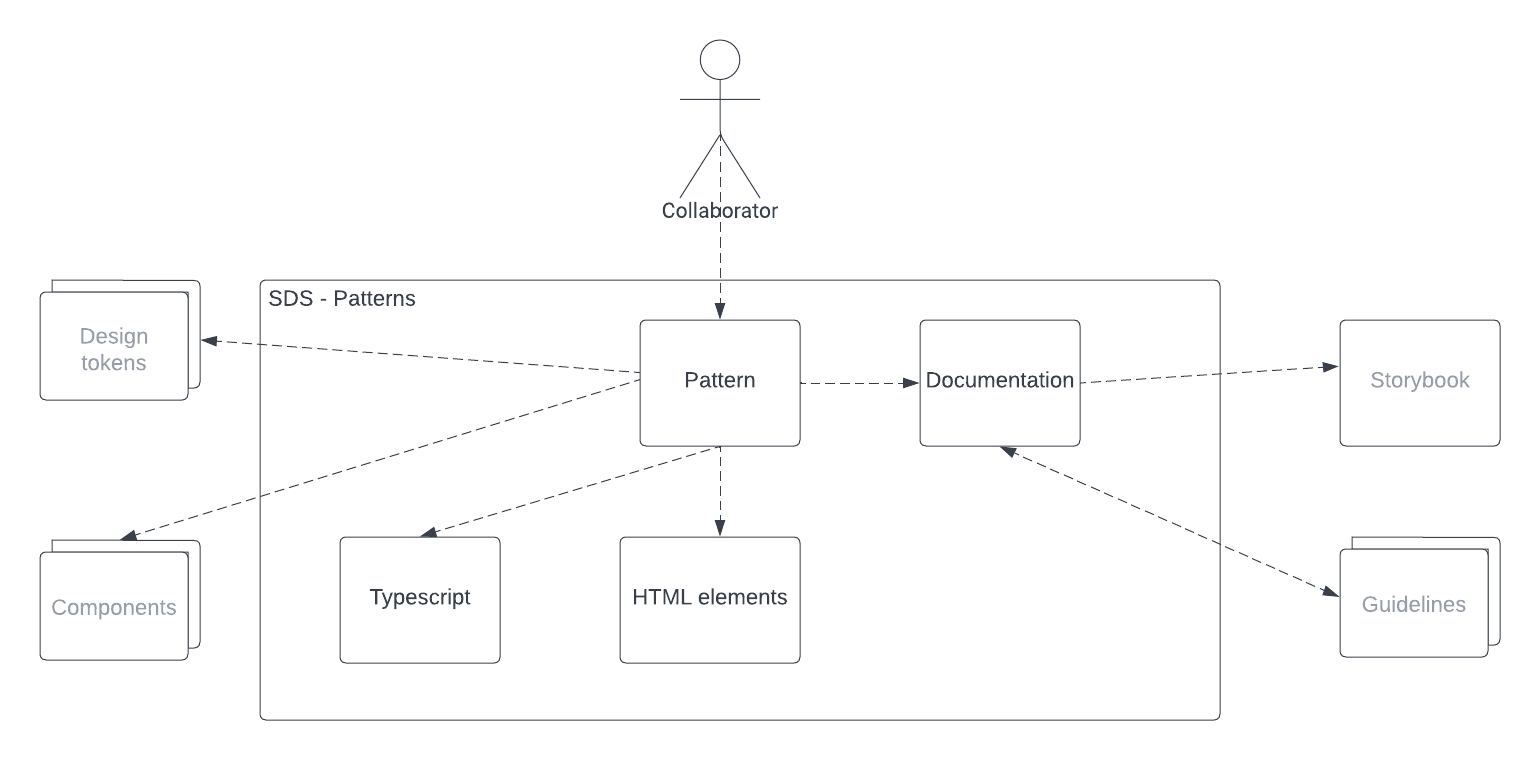
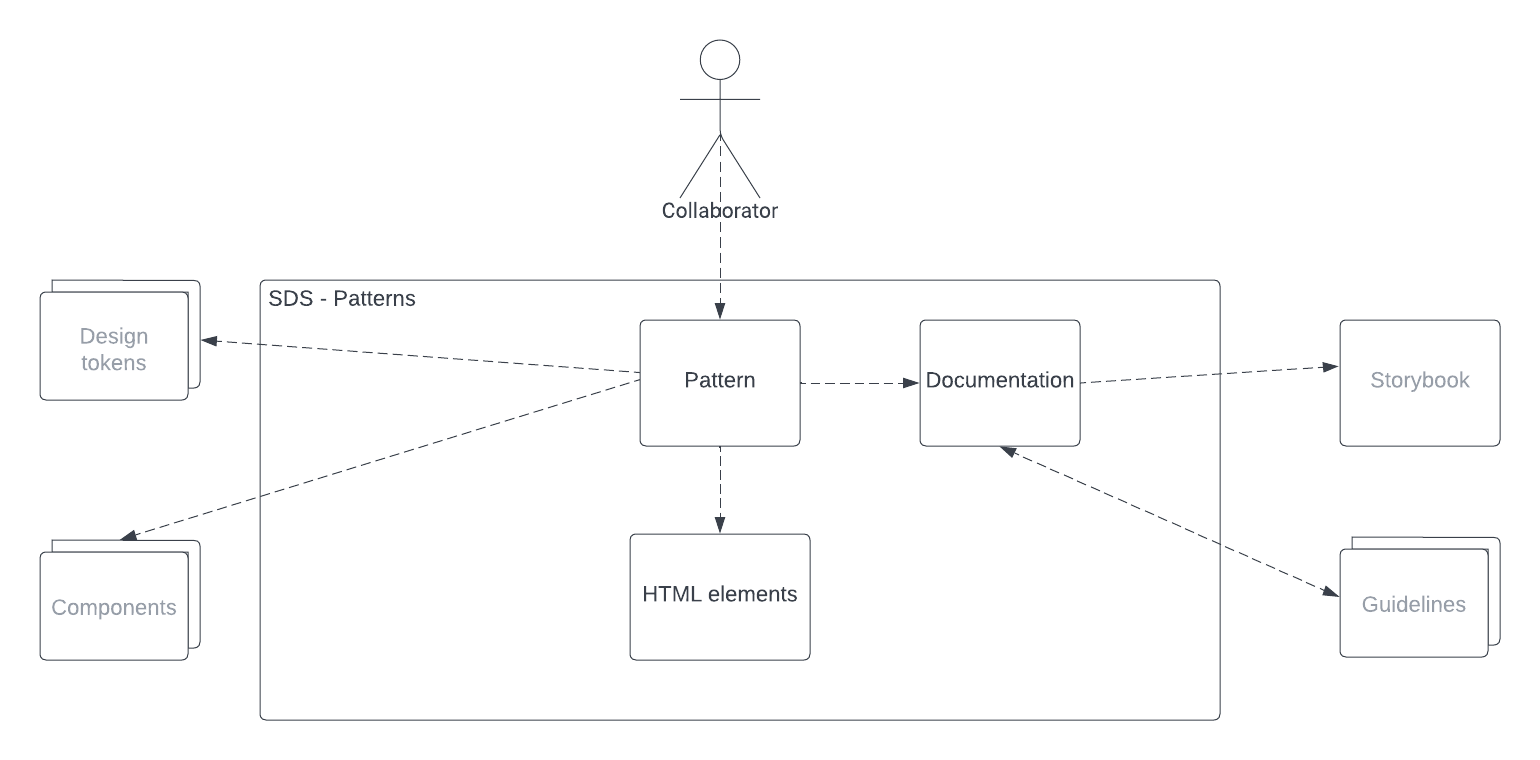
Finishing views of Starke

diff --git a/chapter_3/modeling.tex b/chapter_3/modeling.tex
@@ -1,7 +1,7 @@
 \subsection{Architecture}
 The actual architecture of the \ac{SDS} describes the structure of the \ac{SDS}. The elaboration models the architecture according to Starke's four-view principle. The four perspectives describe different aspects of the system architecture. \cite{starke_effektive_2020}
 
-\subsubsection{Context perspective}
+\subsubsection{Context perspective}\label{context_view}
 The context perspective is an overview of the system by modeling out the dependencies to other systems and actors interacting with the system.\\
 \begin{figure}[htbp]
     \centerline{
@@ -61,25 +61,38 @@ The connection to collaborators represents their contributions to the design tok
 Next, it is time to take a closer look at the architecture of the SDS by moving to the second level of the building block view. At the second level, Starke's method performs a more detailed analysis of the building blocks of the components and patterns.
 
 \paragraph{Building block view level 2 - Components}
+The first detailed view deals with the components of SDS. Figure \ref{building_block_level_2_component_sds} shows the diagram of a second level component block view. The component building block is in the middle of this diagram. A lot of connections start from there.
+
 \begin{figure}[htbp]
     \centerline{
     \includegraphics[width=\linewidth]{images/building_block_view_level_2_component.png}}
 \caption{Building block level 2 component}
 \label{building_block_level_2_component_sds}
 \end{figure}
-\subparagraph{Components} \label{sds-component}
-Without well-assembled components, design systems cannot exist. Therefore, choosing the right technology package for building components is very important. In the case of \ac{SDS}, one of the most essential requirements is that the system is usable independently of the frontend framework used. To achieve this, \ac{SDS} uses the web components supported in almost all modern browsers. As it is possible to create web components without importing libraries or frameworks, it is for \ac{SDS}. \citep{mdn_web_component_nodate} \\
+\subparagraph{Component} \label{sds-component}
+Without well-assembled components, design systems cannot exist. Therefore, choosing the right technology package for building components is very important. In the case of \ac{SDS}, one of the most essential requirements is that the system is usable independently of the frontend framework used. The link to the Lit element module symbolizes the use of this lightweight framework, which can be used to create framework-independent components. In addition to this link, the link to Typescript points to another technology that supports building the components.  \\
+The diagram shows that the only actor in the components of the design system is the collaborator. He is responsible for all adjustments of the component. \\
+Since components within a design system must have documentation, this diagram shows a link from the component box to the documentation building block. This indicator shows that a component provides documentation that is then used further in the storybook component to publish it. \\
+Other outgoing connections related to the component module are to the other essential components of a design system - the tokens and patterns. As explained earlier, tokens should be used everywhere when new elements are created within the design system. The connection represents the consumption of design tokens in a component. The other outgoing connection is actually a consumption of the components by the design system patterns. \\
 
-Creating web components natively can be complicated. The Lit Element framework helps developers build web components by eliminating some of the pitfalls of implementing web components from scratch. With a focus on ease of understanding, intelligent DOM updates, and a small package size (5 KB), Lit is a perfect addition for creating components for design systems based on standard web components. \citep{lit_nodate} \\
-
+\subparagraph{Typescript}
 To further assist developers, \ac{SDS} uses Typescript, a superset of Javascript. It extends Javascript with types and interfaces. Typescript must be compiled into Javascript for the browser to understand, but this allows the developer to find errors much faster because it fails at compile time rather than at runtime. \citep{microsoft_typescript_nodate} \\
+For this reason, the diagram in Figure \ref{building_block_level_2_component_sds} shows that Typescript is used by the Lit element and the component module. Therefore, technologically, there is no gap between the component and the framework used.
 
-The \ac{SDS} uses custom CSS variables to use and provide design tokens for colors or spacing. The design system imports the design tokens into the root element during bootstrapping. In the documentation of the design system exists a page with an overview of all design tokens. \citep{mdn_css_vars_nodate} \\
+\subparagraph{Lit-Element}
+Creating web components natively can be complicated. The Lit Element framework helps developers build web components by eliminating some of the pitfalls of implementing web components from scratch. With a focus on ease of understanding, intelligent DOM updates, and a small package size (5 KB), Lit is a perfect addition for creating components for design systems based on standard web components. \citep{lit_nodate} \\
+Since this framework is based on the web standard of web components, the diagram indicates the use of this standard with a link.
 
-Last but not least, users must have access to the documentation of the components and tokens. Storybook is the documentation tool for the \ac{SDS}. It has many built-in functions that are useful for documenting components. With MDX, the combination of Markdown templating (MD) and code injection via JSX, it is possible to write fluid documentation without having to jump back and forth between files while documenting components. \citep{otander_markdown_2017} \\
+\subparagraph{Web components}
+Web Components is a widely supported standard in all modern browsers for creating reusable components. It is not necessary to use a framework like React or Angular. Web Components encapsulate HTML, CSS, and JavaScript from the rest of the elements within a browser. They provide interfaces for communicating data in and out of the component. This makes web components highly reusable in all parts of a web project. \citep{mdn_web_component_nodate} \\
+Due to their high reusability and broad support, web components are a perfect fit for \ac{SDS} components. As described in the previous section, the link in the diagram represents the use of the Web Components standard by Lit-Element.
 
-With this technology stack, \ac{SDS} provides users with highly reusable web components that are easy for users to access but also easy for contributors to develop.
+\subparagraph{Documentation}
+Last but not least, users must have access to the documentation of components. The link in Figure \ref{building_block_level_2_component_sds} from the documentation to the Storybook indicates that it is the documentation tool for the \ac{SDS}. \\
+With MDX, the combination of Markdown templating (MD) and code injection via JSX, it is possible to write fluid documentation without having to jump back and forth between files while documenting components. \citep{otander_markdown_2017} \\
+
 \paragraph{Building block view level 2 - Patterns}
+The second detailed view deals with the patterns of SDS. Figure \ref{building_block_level_2_pattern_sds} shows the diagram of a second level component block view. The pattern building block is in the middle of this diagram. A lot of connections start from there.
 \begin{figure}[htbp]
     \centerline{
     \includegraphics[width=\linewidth]{images/building_block_view_level_2_pattern.png}}
@@ -89,16 +102,59 @@ With this technology stack, \ac{SDS} provides users with highly reusable web com
 
 
 
-\subparagraph{Patterns}
-An essential part of a design systems are patterns. Patterns try to combine the capabilities of a design system with the design of user interfaces. In the case of \ac{SDS}, patterns help developers automatically apply best practices and web standards without having to read an entire text. \\
+\subparagraph{Pattern}
+An essential part of a design systems are patterns. Patterns try to combine the capabilities of a design system with the design of user interfaces. In the case of \ac{SDS}, patterns help developers automatically apply best practices to their product without having to read an entire text. \\
+As with the components of SDS, the only actor is the collaborator. Figure \ref{building_block_level_2_pattern_sds} shows the only link of an actor to the pattern, indicating that he is responsible for all pattern adjustments. \\
+Combining standard HTML elements and components from SDS creates patterns in SDS. The diagram indicates these connections by the arrows shown above. These patterns are easily accessible to the developer by copying and pasting code into the desired application that integrates the \ac{SDS}. \\
+Patterns use design tokens and components of \ac{SDS}, visible here in Figure \ref{building_block_level_2_pattern_sds} as external dependencies. This ensures that the patterns created are consistent with the overall design idea of the design system. \\
+Additional documentation, visible through the connection with the documentation module, helps the developer to avoid using patterns where they do not belong. \\
+The goal of \ac{SDS} patterns is to simplify web accessibility compliance and leave enough room for user customization. Proper use of patterns is crucial for successful integration of \ac{SDS} into a product.
 
-The combination of standard HTML elements and components from SDS creates patterns in the SDS. These are easily accessible to the developer by copying and pasting code into the desired application that has implemented the SDS. Additional documentation helps the developer to avoid using patterns where they do not belong. \\
+\subparagraph{Documentation}
+\ac{SDS} patterns come with special documentation that allows for customization and redesign. The documentation enables developers to fulfill their requirements for their own design system.\\
+As with the component documentation, a link to the storybook shows that the patterns also leverage the power of the features. Features such as live examples show the \ac{SDS} user how the design system patterns will work in the final product. Several different examples for each pattern present the possibilities for individual design. \\
+A special link in Figure \ref{building_block_level_2_pattern_sds} shows the bidirectional connection from documentation to guidelines. This link represents the possibility to share own variants of the \ac{SDS} design patterns. This leads to a high level of interaction of the design patterns within the \acl{SDS}.
 
-SDS patterns come with special documentation that allows for customization and redesign. The documentation enables developers to fulfill their requirements for their own design system.\\
+\subparagraph{HTML elements}
+The last block in the diagram of Figure \ref{building_block_level_2_pattern_sds} is the HTML element. This block is there for several reasons. It's not just about the use of HTML elements within patterns, but also about their proper use. \\
+HTML elements have a lot of built-in accessibility, and that's what SDS's patterns are looking for. Proper use of HTML elements helps structure the code of a web page while providing accessibility for keyboards and screen readers. \citep{mdn_html_nodate}
 
-As with the component documentation, live examples show the developer how the design system patterns will work in the final product. Several different examples for each pattern present the possibilities for individual design. \ac{SDS} users have the opportunity to share their creations and application of patterns below the documentation. \\
-
-The big benefit of using SDS is the patterns. They simplify web accessibility compliance and leave enough room for individual user designs. The correct use of patterns is crucial for a successful integration of \ac{SDS} into a product.
-
-\subsubsection{Distribution view}
 \subsubsection{Runtime view}
+The runtime view is the third view of Starke's four-view principle. Here it is important to find out which components are active for a particular action. This helps to understand which components interact with each other and when, and which preconditions are required for certain processes. \citep{starke_effektive_2020}\\
+An existing use case of a runtime diagram is the interaction of the end user with an application that implements the \ac{SDS}. Considering the context view in Chapter \ref{context_view}, the end user does not interact directly with the \ac{SDS}. Therefore, a sequence diagram helps to understand how the end user ultimately interacts with the \ac{SDS}. \\
+\begin{figure}[htb]
+    \centerline{
+    \includegraphics[width=\linewidth]{images/runtime_diagram_sds.png}}
+\caption{Run time diagram of end user interacting with \ac{SDS}}
+\label{runtime_diagram_sds}
+\end{figure}
+The following steps explain the flow of the sequence diagram shown in Figure \ref{runtime_diagram_sds}.
+\begin{enumerate}
+    \item The end user starts by opening the web browser and accessing a SaaS web application. 
+    \item The opened web application initiates a load of preferentially bundled JavaScript files from the SaaS product.
+    \item  Within the bundled code of the product, components of a component library from a product design system may be included. 
+    \item The product design system is based on the \acl{SDS}, therefore the \ac{SDS} is loaded.
+    \item In return, the \ac{SDS} provides the product development system with the component code as the basis for its components.
+    \item The \ac{SDS} also makes the same components available to the browser so that they are available for rendering.
+    \item The product design system returns its component to the product code.
+    \item The product design system also makes its components available to the browser so that they are available for rendering.
+    \item When all the component information is available, the product code can make the final changes to the components and then return them to the browser for rendering.
+    \item The design tokens of the \ac{SDS} are provided in the root of the browser.
+    \item The design tokens of the product design system are provided in the root of the browser. This will override the tokens of the \ac{SDS}.
+    \item The product code has its own design tokens and overrides them in the last instance.
+    \item After completing all the steps, the browser is able to render the desired web application for the end user.
+\end{enumerate}
+It is important to note in this diagram that the steps (10-12) to load the design tokens in the browser do not have to be behind the component code. Rather, the tokens can be loaded into the browser in parallel. It is only important to note the order in which the design tokens override each other. \\
+As well as the note inside the diagram. It is not necessary to have a design system of a product team between the use of the \ac{SDS}. It is also possible for a SaaS product to use the \ac{SDS} directly.\\
+This completes the runtime view of the end user interacting with the SDS. 
+\subsubsection{Distribution view}
+The fourth and final view of Starke's model is the distribution view. The goal of this view is to show how the system distributes its components. This makes it possible to show crucial interfaces between system components. A distribution diagram displays how components are distributed across the system infrastructure. This view is especially important for the operators of the software system. \cite{starke_effektive_2020} \\
+\begin{figure}[htbp]
+    \centerline{
+    \includegraphics[width=\linewidth]{images/deployment_diagram_sds.png}}
+\caption{Deployment diagram of \ac{SDS}}
+\label{deployment_diagram_sds}
+\end{figure}
+In the case of SDS, a deployment view is difficult to model. Since the design system does not require a backend or database service. The only thing the SDS does is to deploy a bundled JavaScript file via a package manager. This way, the component library is available to everyone. \\
+Figure \ref{deployment_diagram_sds} shows exactly this scenario. The developed design system is deployed in a package manager, in this case the Node package manager. On the left side of the diagram is the local development environment of each developer using the \ac{SDS}. As before, he could have a design system built on top of the \ac{SDS}. \\
+In either case, this local development environment receives the design system through the channel shown in Figure \ref{deployment_diagram_sds}. This channel can either be loaded via a script tag within his web project or installed via the Node package manager within his environment.  

diff --git a/chapter_4/test_systems.tex b/chapter_4/test_systems.tex
@@ -2,7 +2,7 @@
 The point is to have two applications that are similar. This way we can see if the SDS brings improvements for the user. For this reason, it is important that both systems are visually indistinguishable from each other. Both systems consist of three views and an optional view that is used to explain the test case task to the user. Therefore, this view is omitted from the count. \\
 
 \begin{figure}[hbtp]
-    \centerline{\includegraphics[height=7cm, draft=false]{images/demo_view_landing_page.png}}
+    \centerline{\includegraphics[width=\linewidth, draft=false]{images/demo_view_landing_page.png}}
     \caption{Landing page of test applications}
     \label{landing_page}
     \end{figure}
@@ -11,7 +11,7 @@ The first view (Figure \ref{landing_page}) is the landing page when the user sta
 
 In the second view (Figure \ref{data_table}), the user sees a data table with entries from various made-up companies. Besides the company name, the user finds the current status of the company and a description in the table. The description is also a Lorem ipsum without any relevance. At the top right of the data table, the user finds a button labelled "Add +". This button leads him to the third view. 
 \begin{figure}[htbp]
-    \centerline{\includegraphics[height=7cm, draft=false]{images/demo_view_data_table.png}}
+    \centerline{\includegraphics[width=\linewidth, draft=false]{images/demo_view_data_table.png}}
     \caption{Data table page of test applications}
     \label{data_table}
     \end{figure}
@@ -19,7 +19,7 @@ In the second view (Figure \ref{data_table}), the user sees a data table with en
 
 The last view (Figure \ref{adding_form}) of the sample applications shows a form for adding new data to the table. The form has three inputs for each value corresponding to the table from the second view. All inputs are plain text inputs with no restriction or validation of the inputs. In a real scenario, there would be validation, but due to the limited time frame of this elaboration, this feature is omitted. At the bottom of the form, the user sees a button to save the form. This button is disabled until all input fields are filled with a value. 
 \begin{figure}[htbp]
-    \centerline{\includegraphics[height=7cm, draft=false]{images/demo_view_form.png}}
+    \centerline{\includegraphics[width=\linewidth, draft=false]{images/demo_view_form.png}}
     \caption{Data adding view of test applications}
     \label{adding_form}
     \end{figure}
